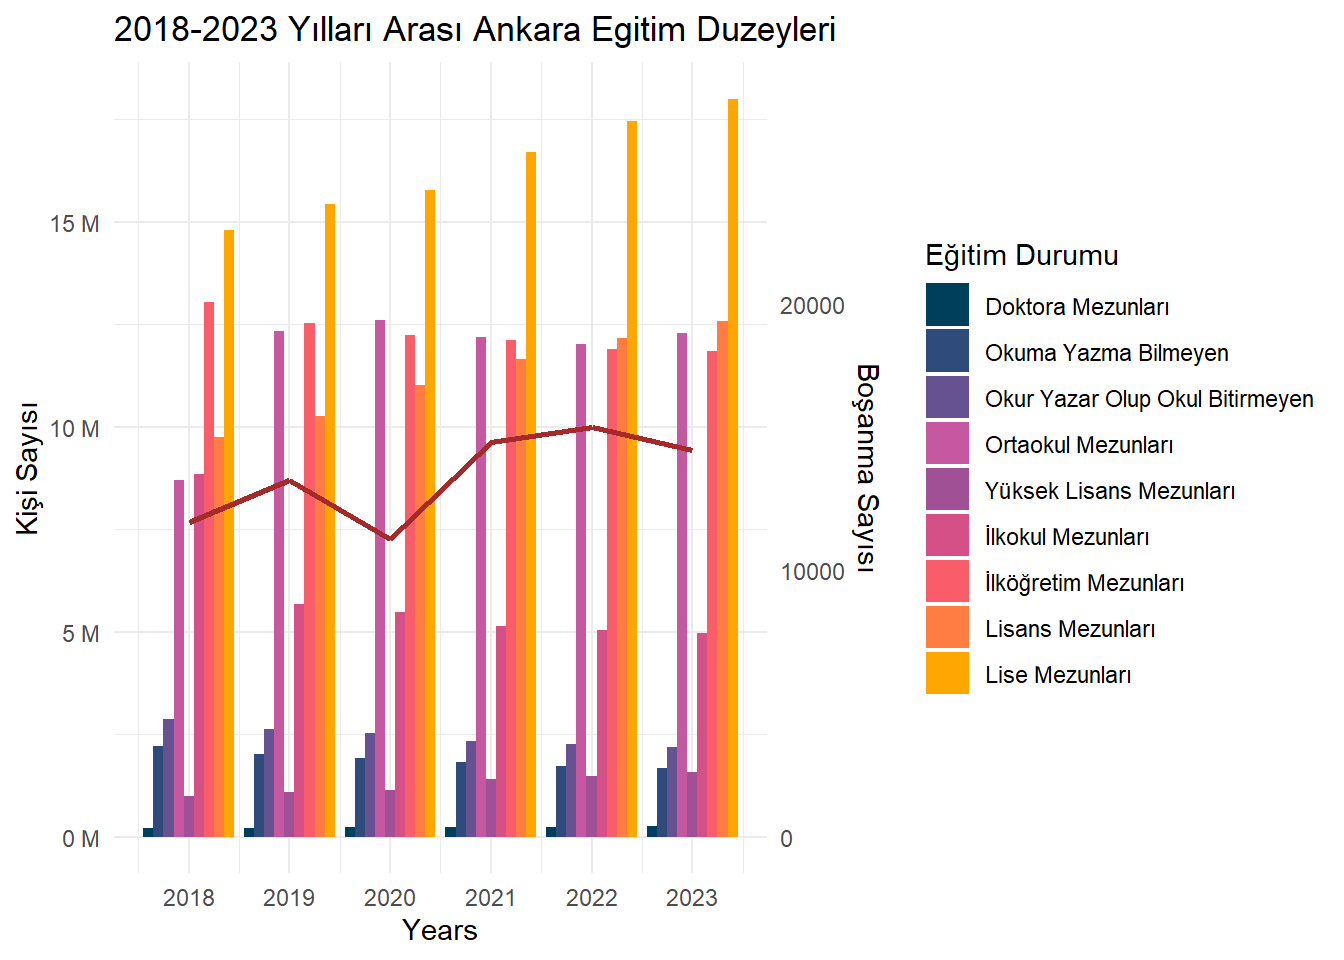
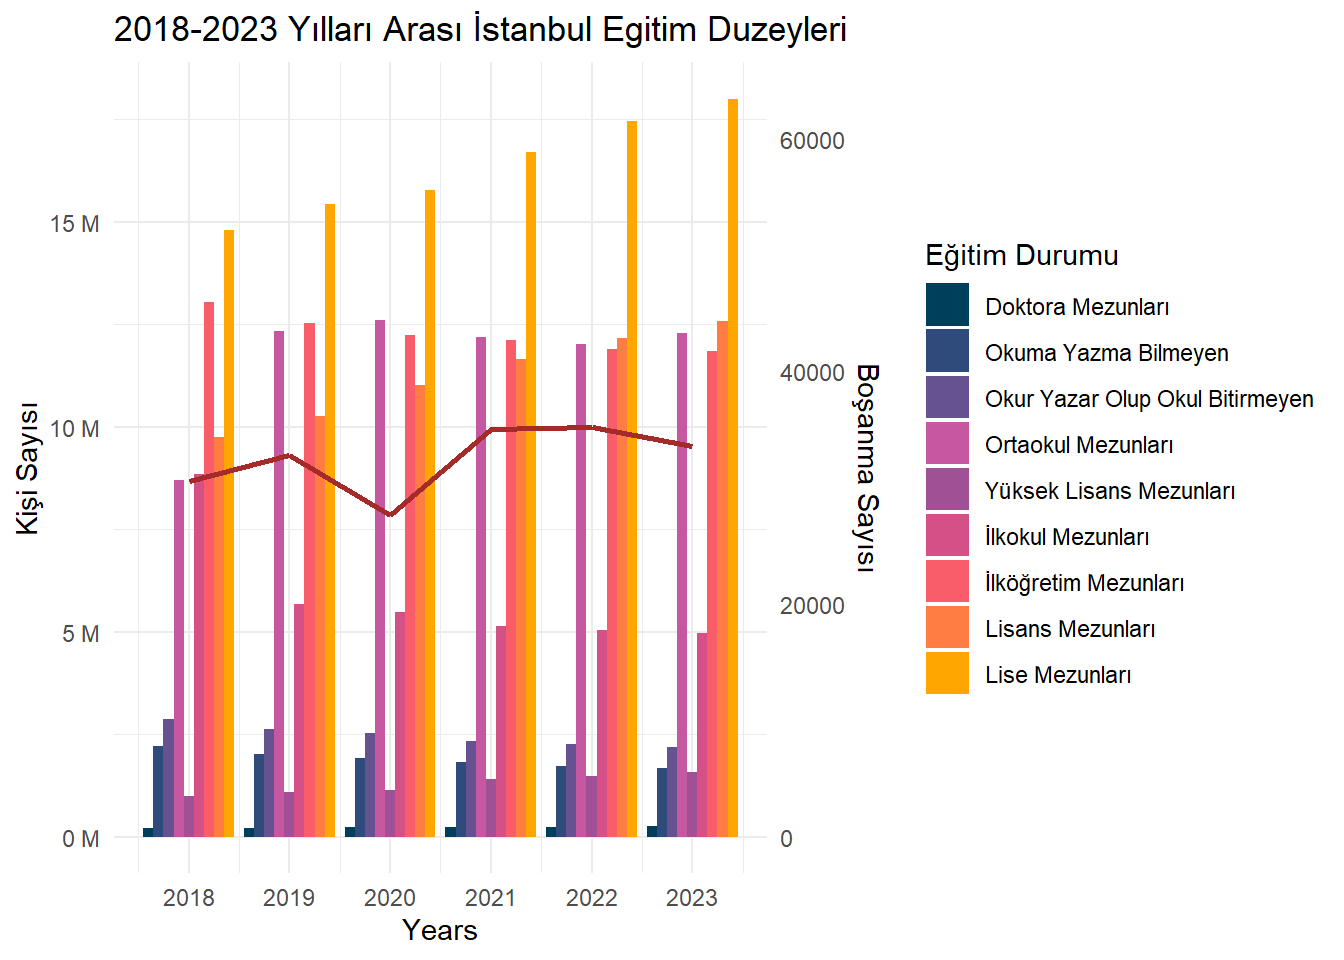
country comparison graphs and results

diff --git a/docs/proje.html b/docs/proje.html
@@ -166,14 +166,8 @@ pre > code.sourceCode > span > a:first-child::before { text-decoration: underlin
   <li><a href="#veri-setleri" id="toc-veri-setleri" class="nav-link" data-scroll-target="#veri-setleri"><span class="header-section-number">1.3.1</span> Veri Setleri:</a></li>
   </ul></li>
   </ul></li>
-  <li><a href="#analiz" id="toc-analiz" class="nav-link" data-scroll-target="#analiz"><span class="header-section-number">2</span> Analiz</a>
-  <ul class="collapse">
-  <li><a href="#keşifsel-veri-analizi" id="toc-keşifsel-veri-analizi" class="nav-link" data-scroll-target="#keşifsel-veri-analizi"><span class="header-section-number">2.1</span> Keşifsel Veri Analizi</a></li>
-  <li><a href="#trend-analizi" id="toc-trend-analizi" class="nav-link" data-scroll-target="#trend-analizi"><span class="header-section-number">2.2</span> Trend Analizi</a></li>
-  <li><a href="#model-uydurma" id="toc-model-uydurma" class="nav-link" data-scroll-target="#model-uydurma"><span class="header-section-number">2.3</span> Model Uydurma</a></li>
-  <li><a href="#sonuçlar" id="toc-sonuçlar" class="nav-link" data-scroll-target="#sonuçlar"><span class="header-section-number">2.4</span> Sonuçlar</a></li>
-  </ul></li>
-  <li><a href="#sonuçlar-ve-ana-çıkarımlar" id="toc-sonuçlar-ve-ana-çıkarımlar" class="nav-link" data-scroll-target="#sonuçlar-ve-ana-çıkarımlar"><span class="header-section-number">3</span> Sonuçlar ve Ana Çıkarımlar</a></li>
+  <li><a href="#analiz" id="toc-analiz" class="nav-link" data-scroll-target="#analiz"><span class="header-section-number">2</span> Analiz</a></li>
+  <li><a href="#sonuçlar" id="toc-sonuçlar" class="nav-link" data-scroll-target="#sonuçlar"><span class="header-section-number">3</span> Sonuçlar</a></li>
   </ul>
 </nav>
 </nav>
@@ -324,51 +318,18 @@ pre > code.sourceCode > span > a:first-child::before { text-decoration: underlin
 </div>
 </div>
 </div>
-<p>Çalışmanın bu bölümünde 2018 ve 2023 yılları arasındaki illerin eğitim düzeyine iliskin veriler analiz edilmiştir. 2018 yılında birçok ilde özellikle okuma yazma bilmeyenlerin oranı yüksek seviyelerdeyken, 2023 yılında bu oranların anlamlı bir şekilde azaldığı dikkat çekmektedir. Örneğin İstanbul’da 2018’de okuma yazma bilmeyenlerin oranı %2,27 iken, 2023’te %1,65’e gerilemiştir. Aynı zamanda ilkokul ve lise mezunlarının oranı kısmen düşerken, bu durumun üniversite ve diğer yükseköğretim düzeylerindeki artışla dengelendiği görülmektedir. Üniversite ve üstü eğitim oranı 2018’de ortalama %13,8 iken, 2023’te %16,8’e yükselmiştir. Bazı Doğu ve Güneydoğu Anadolu illerinde ise ilerleme daha sınırlı kalmıştır. Örneğin Hakkâri’de 2018’de okuryazarlık oranı oldukça %7,18 iken bu oran 2023’te %4,14’e düşmüştür. Genel olarak, bu beş yıllık dönemde Türkiye’nin birçok ilinde eğitim düzeyinde ilerleme sağlanmış, özellikle okuryazarlık oranı artarken, yükseköğretim oranı da yükselmiştir. Ancak bölgesel eşitsizlikler ve cinsiyet temelli farklardan dolayi eğitim oranında hala dengesiz dağılım bulunmaktadır.</p>
-<p>Türkiye’de boşanma oranları 2018 ile 2023 yılları arasında düzenli bir artış göstermiştir. 2018 yılında boşanma oranı %9,462, 2023 yılında ise %12,093 olarak gözukmektedir. Bu verilere göre, 5 yıl içinde boşanma oranı yaklaşık olarak %2,63 artmıştır. Bu da yaklaşık olarak %27,8’lik oransal bir artışa karşılık gelmektedir. Bu artış, toplumdaki bireylerin boşanma konusunda daha fazla farkındalık kazandığını göstermektedir.</p>
+<ul>
+<li>En fazla kişi sayısına sahip eğitim düzeyi “Lise Mezunları” ve “İlkokul Mezunları” olarak görülmektedir. “Okuma Yazma Bilmeyen” ve “Doktora Mezunları” en az kişi sayısına sahip gruplardır.</li>
+<li>Her yıl eğitim düzeyleri arasında çok büyük bir değişim görülmemektedir; grafik genellikle dengeli bir dağılım göstermektedir.</li>
+<li>Boşanma sayıları da yıllar arasında dalgalanma göstermektedir.</li>
+<li>2020 yılında boşanma sayısında gözle görülür bir azalma yaşanmıştır. Bu düşüşün temel nedenleri arasında pandemi etkisi düşünülebilir (karantina süreçleri ve adliyelerin kapalı olması gibi).</li>
+<li>2021 yılından itibaren boşanma sayıları tekrar yükselme eğilimindedir.</li>
+</ul>
+<p>Grafik, doğrudan eğitim düzeyleri ile boşanma oranları arasında bir ilişki kurmamaktadır.</p>
+<p>Ancak gözlem olarak; lise ve ilkokul mezunlarının sayısının fazla olduğu yıllarda boşanma sayısında da artış olduğu görülmektedir. Eğitim düzeyi yükseldikçe (örneğin üniversite ve üstü), kişi sayısının azalması dikkat çekicidir, ancak boşanma oranına doğrudan etkisi gözlemlenmemektedir.</p>
+<p>2018 ve 2023 yılları arasında Türkiye’de boşanma oranları illere göre farklılıklar göstermiştir.</p>
+<p>Karşılaştırma için seçilen illere göre durumu gösterir grafikler aşağıda sunulmuştur:</p>
 <div class="cell">
-<div class="sourceCode cell-code" id="cb2"><pre class="sourceCode r code-with-copy"><code class="sourceCode r"><span id="cb2-1"><a href="#cb2-1" aria-hidden="true" tabindex="-1"></a>iller <span class="ot">&lt;-</span> <span class="fu">c</span>(<span class="st">"Ankara"</span>)</span>
-<span id="cb2-2"><a href="#cb2-2" aria-hidden="true" tabindex="-1"></a></span>
-<span id="cb2-3"><a href="#cb2-3" aria-hidden="true" tabindex="-1"></a><span class="cf">for</span> (il <span class="cf">in</span> iller) {</span>
-<span id="cb2-4"><a href="#cb2-4" aria-hidden="true" tabindex="-1"></a>  max_value <span class="ot">&lt;-</span> <span class="fu">max</span>(merged_data[il])</span>
-<span id="cb2-5"><a href="#cb2-5" aria-hidden="true" tabindex="-1"></a>  coef <span class="ot">&lt;-</span> <span class="fl">10e6</span><span class="sc">/</span>max_value</span>
-<span id="cb2-6"><a href="#cb2-6" aria-hidden="true" tabindex="-1"></a>  </span>
-<span id="cb2-7"><a href="#cb2-7" aria-hidden="true" tabindex="-1"></a>  <span class="co"># Create the dual-axis plot</span></span>
-<span id="cb2-8"><a href="#cb2-8" aria-hidden="true" tabindex="-1"></a>  <span class="fu">print</span>(<span class="fu">ggplot</span>(merged_data, <span class="fu">aes</span>(<span class="at">x =</span> year, <span class="at">fill =</span> EducationLevel)) <span class="sc">+</span></span>
-<span id="cb2-9"><a href="#cb2-9" aria-hidden="true" tabindex="-1"></a>    <span class="fu">geom_bar</span>(<span class="fu">aes</span>(<span class="at">y =</span> Total), <span class="at">stat =</span> <span class="st">"identity"</span>, <span class="at">position =</span> <span class="st">"dodge"</span>, <span class="at">alpha =</span> <span class="dv">1</span>) <span class="sc">+</span></span>
-<span id="cb2-10"><a href="#cb2-10" aria-hidden="true" tabindex="-1"></a>    <span class="fu">geom_line</span>(<span class="fu">aes</span>(<span class="at">x =</span> year, <span class="at">y =</span> <span class="sc">!!</span><span class="fu">sym</span>(il) <span class="sc">*</span> coef, <span class="at">group =</span> <span class="st">"bosanma"</span>), <span class="at">color =</span> <span class="st">"brown"</span>, <span class="at">linewidth =</span> <span class="dv">1</span>) <span class="sc">+</span></span>
-<span id="cb2-11"><a href="#cb2-11" aria-hidden="true" tabindex="-1"></a>  <span class="fu">scale_fill_manual</span>(<span class="at">values =</span> <span class="fu">c</span>(<span class="st">"doctorate_total"</span> <span class="ot">=</span><span class="st">"#003f5c"</span>,</span>
-<span id="cb2-12"><a href="#cb2-12" aria-hidden="true" tabindex="-1"></a>                               <span class="st">"illiterate_total"</span> <span class="ot">=</span> <span class="st">"#2f4b7c"</span>, </span>
-<span id="cb2-13"><a href="#cb2-13" aria-hidden="true" tabindex="-1"></a>                               <span class="st">"literate_without_diploma_total"</span> <span class="ot">=</span> <span class="st">"#665191"</span>,</span>
-<span id="cb2-14"><a href="#cb2-14" aria-hidden="true" tabindex="-1"></a>                               <span class="st">"lower_secondary_school_total"</span> <span class="ot">=</span> <span class="st">"#c558a1"</span>,</span>
-<span id="cb2-15"><a href="#cb2-15" aria-hidden="true" tabindex="-1"></a>                               <span class="st">"master_total"</span> <span class="ot">=</span> <span class="st">"#a05195"</span>,</span>
-<span id="cb2-16"><a href="#cb2-16" aria-hidden="true" tabindex="-1"></a>                               <span class="st">"primary_education_total"</span> <span class="ot">=</span> <span class="st">"#d45087"</span>,</span>
-<span id="cb2-17"><a href="#cb2-17" aria-hidden="true" tabindex="-1"></a>                               <span class="st">"primary_school_total"</span> <span class="ot">=</span> <span class="st">"#f95d6a"</span>, <span class="st">"universities_and_other_higher_educational_institutions_total"</span> <span class="ot">=</span><span class="st">"#ff7c43"</span>,</span>
-<span id="cb2-18"><a href="#cb2-18" aria-hidden="true" tabindex="-1"></a>                               <span class="st">"upper_secondary_school_total"</span> <span class="ot">=</span><span class="st">"#ffa600"</span></span>
-<span id="cb2-19"><a href="#cb2-19" aria-hidden="true" tabindex="-1"></a>                               ),</span>
-<span id="cb2-20"><a href="#cb2-20" aria-hidden="true" tabindex="-1"></a>                    <span class="at">labels =</span> <span class="fu">c</span>(<span class="st">"Doktora Mezunları"</span>,</span>
-<span id="cb2-21"><a href="#cb2-21" aria-hidden="true" tabindex="-1"></a>                               <span class="st">"Okuma Yazma Bilmeyen"</span>,</span>
-<span id="cb2-22"><a href="#cb2-22" aria-hidden="true" tabindex="-1"></a>                               <span class="st">"Okur Yazar Olup Okul Bitirmeyen"</span>,</span>
-<span id="cb2-23"><a href="#cb2-23" aria-hidden="true" tabindex="-1"></a>                               <span class="st">"Ortaokul Mezunları"</span>,</span>
-<span id="cb2-24"><a href="#cb2-24" aria-hidden="true" tabindex="-1"></a>                               <span class="st">"Yüksek Lisans Mezunları"</span>,</span>
-<span id="cb2-25"><a href="#cb2-25" aria-hidden="true" tabindex="-1"></a>                               <span class="st">"İlkokul Mezunları"</span>,</span>
-<span id="cb2-26"><a href="#cb2-26" aria-hidden="true" tabindex="-1"></a>                               <span class="st">"İlköğretim Mezunları"</span>,</span>
-<span id="cb2-27"><a href="#cb2-27" aria-hidden="true" tabindex="-1"></a>                               <span class="st">"Lisans Mezunları"</span>,</span>
-<span id="cb2-28"><a href="#cb2-28" aria-hidden="true" tabindex="-1"></a>                               <span class="st">"Lise Mezunları"</span></span>
-<span id="cb2-29"><a href="#cb2-29" aria-hidden="true" tabindex="-1"></a>                               )) <span class="sc">+</span></span>
-<span id="cb2-30"><a href="#cb2-30" aria-hidden="true" tabindex="-1"></a>    </span>
-<span id="cb2-31"><a href="#cb2-31" aria-hidden="true" tabindex="-1"></a>    <span class="fu">scale_y_continuous</span>(</span>
-<span id="cb2-32"><a href="#cb2-32" aria-hidden="true" tabindex="-1"></a>      <span class="at">name =</span> <span class="st">"Kişi Sayısı"</span>,</span>
-<span id="cb2-33"><a href="#cb2-33" aria-hidden="true" tabindex="-1"></a>      <span class="at">sec.axis =</span> <span class="fu">sec_axis</span>(<span class="sc">~</span> . <span class="sc">/</span> coef, <span class="at">name=</span><span class="st">"Boşanma Sayısı"</span>),</span>
-<span id="cb2-34"><a href="#cb2-34" aria-hidden="true" tabindex="-1"></a>      <span class="at">labels =</span> <span class="cf">function</span>(x) <span class="fu">paste</span>(x <span class="sc">/</span> <span class="fl">1e6</span>, <span class="st">"M"</span>)</span>
-<span id="cb2-35"><a href="#cb2-35" aria-hidden="true" tabindex="-1"></a>    ) <span class="sc">+</span></span>
-<span id="cb2-36"><a href="#cb2-36" aria-hidden="true" tabindex="-1"></a>    <span class="fu">scale_x_continuous</span>(</span>
-<span id="cb2-37"><a href="#cb2-37" aria-hidden="true" tabindex="-1"></a>      <span class="at">name =</span> <span class="st">"Years"</span>,</span>
-<span id="cb2-38"><a href="#cb2-38" aria-hidden="true" tabindex="-1"></a>      <span class="at">breaks =</span> <span class="dv">2018</span><span class="sc">:</span><span class="dv">2023</span>  <span class="co"># Step 1 on x-axis</span></span>
-<span id="cb2-39"><a href="#cb2-39" aria-hidden="true" tabindex="-1"></a>    ) <span class="sc">+</span></span>
-<span id="cb2-40"><a href="#cb2-40" aria-hidden="true" tabindex="-1"></a>    <span class="fu">labs</span>(<span class="at">title =</span> <span class="fu">ifelse</span>(il <span class="sc">==</span> <span class="st">"TR"</span>, <span class="st">"2018-2023 Yılları Arası Turkiye Geneli Eğitim Duzeyleri"</span>, <span class="fu">paste</span>(<span class="st">"2018-2023 Yılları Arası"</span>, il, <span class="st">"Egitim Duzeyleri"</span>)), <span class="at">fill =</span> <span class="st">"Eğitim Durumu"</span>) <span class="sc">+</span></span>
-<span id="cb2-41"><a href="#cb2-41" aria-hidden="true" tabindex="-1"></a>    <span class="fu">theme_minimal</span>())</span>
-<span id="cb2-42"><a href="#cb2-42" aria-hidden="true" tabindex="-1"></a>}</span></code><button title="Copy to Clipboard" class="code-copy-button"><i class="bi"></i></button></pre></div>
 <div class="cell-output-display">
 <div>
 <figure class="figure">
@@ -376,29 +337,45 @@ pre > code.sourceCode > span > a:first-child::before { text-decoration: underlin
 </figure>
 </div>
 </div>
+<div class="cell-output-display">
+<div>
+<figure class="figure">
+<p><img src="proje_files/figure-html/unnamed-chunk-2-2.png" class="img-fluid figure-img" width="672"></p>
+</figure>
 </div>
-<p>2018 ve 2023 yılları arasında Türkiye’de boşanma oranları illere göre farklılıklar göstermiştir. Genel olarak, birçok ilde boşanma oranlarında artış yaşanırken bazı büyükşehirlerde bu oranlarda belirgin bir düşüş gözlemlenmiştir. Örneğin 2018 yılında İstanbul’da boşanma oranı %2,27 iken, 2023’te bu oran %1,65’e gerilemiştir. Benzer şekilde Ankara’da oran %2,12’den %1,50’ye, İzmir’de ise %1,60’tan %1,15’e düşmüştür. Bu düşüşler, büyük şehirlerde boşanmayı etkileyen sosyal ve ekonomik faktörlerin daha zorlu bir hale gelmesi ile açıklanabilir.</p>
-<p>Doğu ve Güneydoğu Anadolu Bölgeleri’ndeki birçok ilde boşanma oranları Türkiye ortalamasının üzerinde seyretmiştir. Örneğin Ağrı’da 2018 yılında %9,37 olan boşanma oranı 2023’te %7,34’e, Mardin’de %10,55’ten %7,78’e gerilemiş olsa da halen yüksek seviyelerdedir.</p>
-<p>Bu durum, bölgedeki eğitim düzeyi ve ekonomik koşulların boşanma kararlarını doğrudan etkilediğini göstermektedir. Genel olarak, 2018-2023 döneminde Türkiye’nin bazı bölgelerinde boşanma oranları azalırken, ülke genelinde boşanma eğiliminin devam ettiğini söylenebilir.</p>
-<section id="keşifsel-veri-analizi" class="level2" data-number="2.1">
-<h2 data-number="2.1" class="anchored" data-anchor-id="keşifsel-veri-analizi"><span class="header-section-number">2.1</span> Keşifsel Veri Analizi</h2>
-<p>xxxxxx</p>
+</div>
+<div class="cell-output-display">
+<div>
+<figure class="figure">
+<p><img src="proje_files/figure-html/unnamed-chunk-2-3.png" class="img-fluid figure-img" width="672"></p>
+</figure>
+</div>
+</div>
+<div class="cell-output-display">
+<div>
+<figure class="figure">
+<p><img src="proje_files/figure-html/unnamed-chunk-2-4.png" class="img-fluid figure-img" width="672"></p>
+</figure>
+</div>
+</div>
+<div class="cell-output-display">
+<div>
+<figure class="figure">
+<p><img src="proje_files/figure-html/unnamed-chunk-2-5.png" class="img-fluid figure-img" width="672"></p>
+</figure>
+</div>
+</div>
+<div class="cell-output-display">
+<div>
+<figure class="figure">
+<p><img src="proje_files/figure-html/unnamed-chunk-2-6.png" class="img-fluid figure-img" width="672"></p>
+</figure>
+</div>
+</div>
+</div>
 </section>
-<section id="trend-analizi" class="level2" data-number="2.2">
-<h2 data-number="2.2" class="anchored" data-anchor-id="trend-analizi"><span class="header-section-number">2.2</span> Trend Analizi</h2>
-<p>xxxxxx</p>
-</section>
-<section id="model-uydurma" class="level2" data-number="2.3">
-<h2 data-number="2.3" class="anchored" data-anchor-id="model-uydurma"><span class="header-section-number">2.3</span> Model Uydurma</h2>
-<p>xxxxxx</p>
-</section>
-<section id="sonuçlar" class="level2" data-number="2.4">
-<h2 data-number="2.4" class="anchored" data-anchor-id="sonuçlar"><span class="header-section-number">2.4</span> Sonuçlar</h2>
-<p>İki veri de ( Egitim ve boşanma) yıllar içinde artış göstermektedir. Eğitim oranı 2018’de %13.16 iken 2023’te %16.87’ye çıkarak yaklaşık %3.7’lik bir artış göstermiştir. Boşanma oranı ise aynı dönemde %9.63’ten %11.84’e çıkarak yaklaşık %2.2’lik bir artış göstermiştir. 2022 ve 2023 yıllarında boşanma oranı sabit kalırken, eğitim oranı küçük de olsa artmaya devam etmiştir. 2018–2023 dönemi, hem eğitimin hem de boşanmanın arttığı bir dönemdir.</p>
-</section>
-</section>
-<section id="sonuçlar-ve-ana-çıkarımlar" class="level1" data-number="3">
-<h1 data-number="3"><span class="header-section-number">3</span> Sonuçlar ve Ana Çıkarımlar</h1>
+<section id="sonuçlar" class="level1" data-number="3">
+<h1 data-number="3"><span class="header-section-number">3</span> Sonuçlar</h1>
 <p>Eğitim seviyesi arttıkça boşanma oranlarında da artış gözlemleniyor, ancak bu iki değer birebir paralel değildir.Eğitimdeki artış daha belirgin ve hızlı gözükmektedir. Bu durum, eğitimle birlikte bireylerin kendi hayatları üzerinde daha fazla söz sahibi olmasının ve bireysel kararlar almasının (örneğin boşanma gibi) artmış olabileceğini düşündürebilir.</p>
 
 
